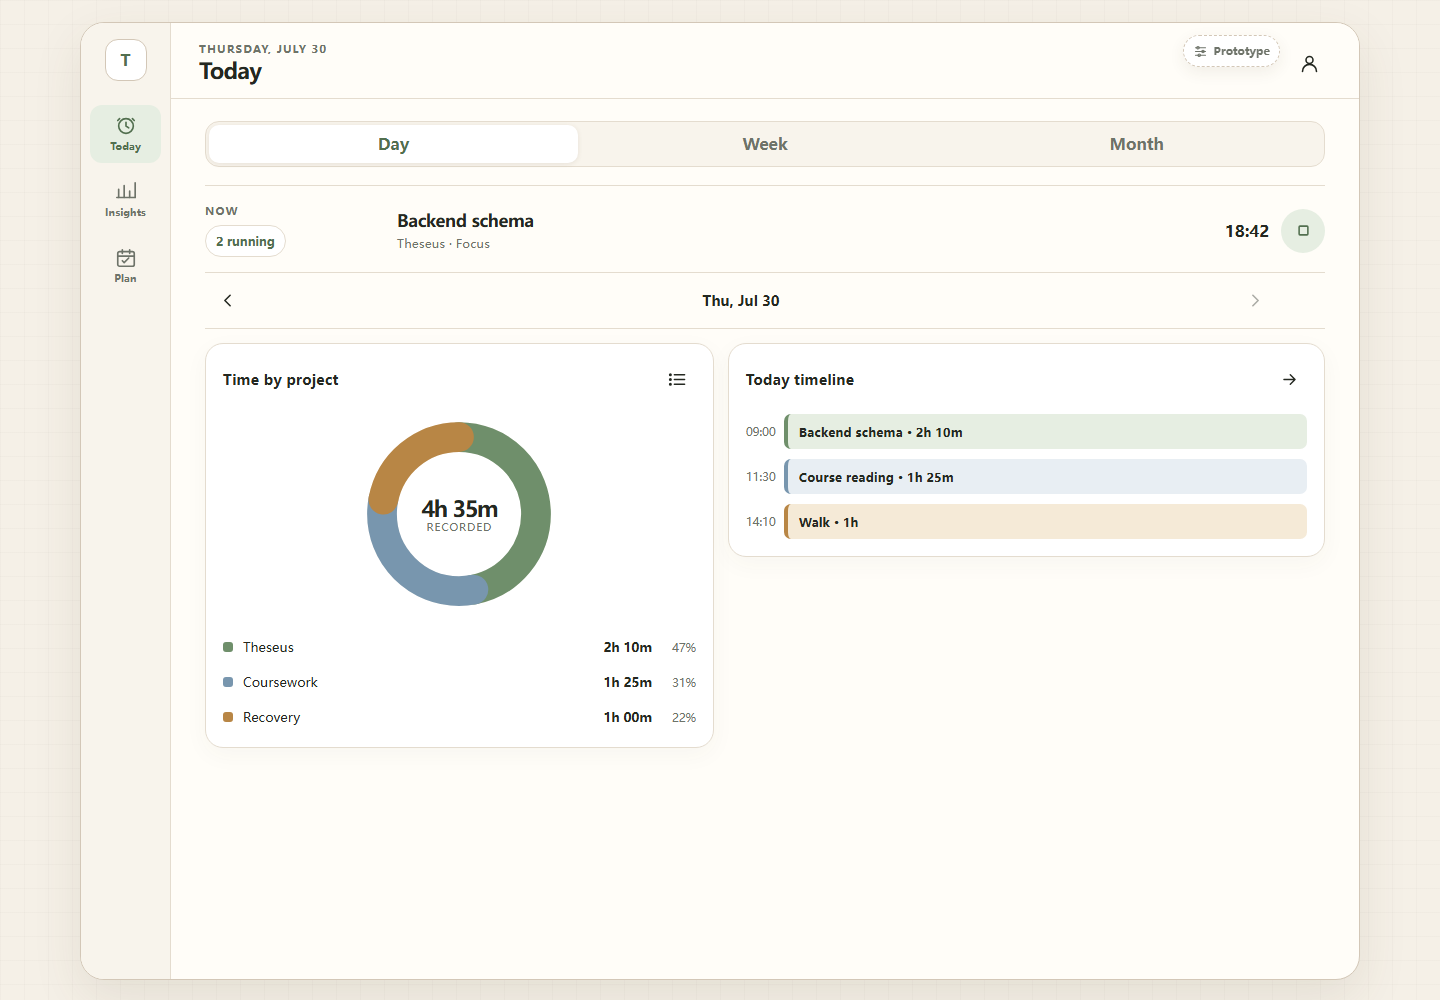
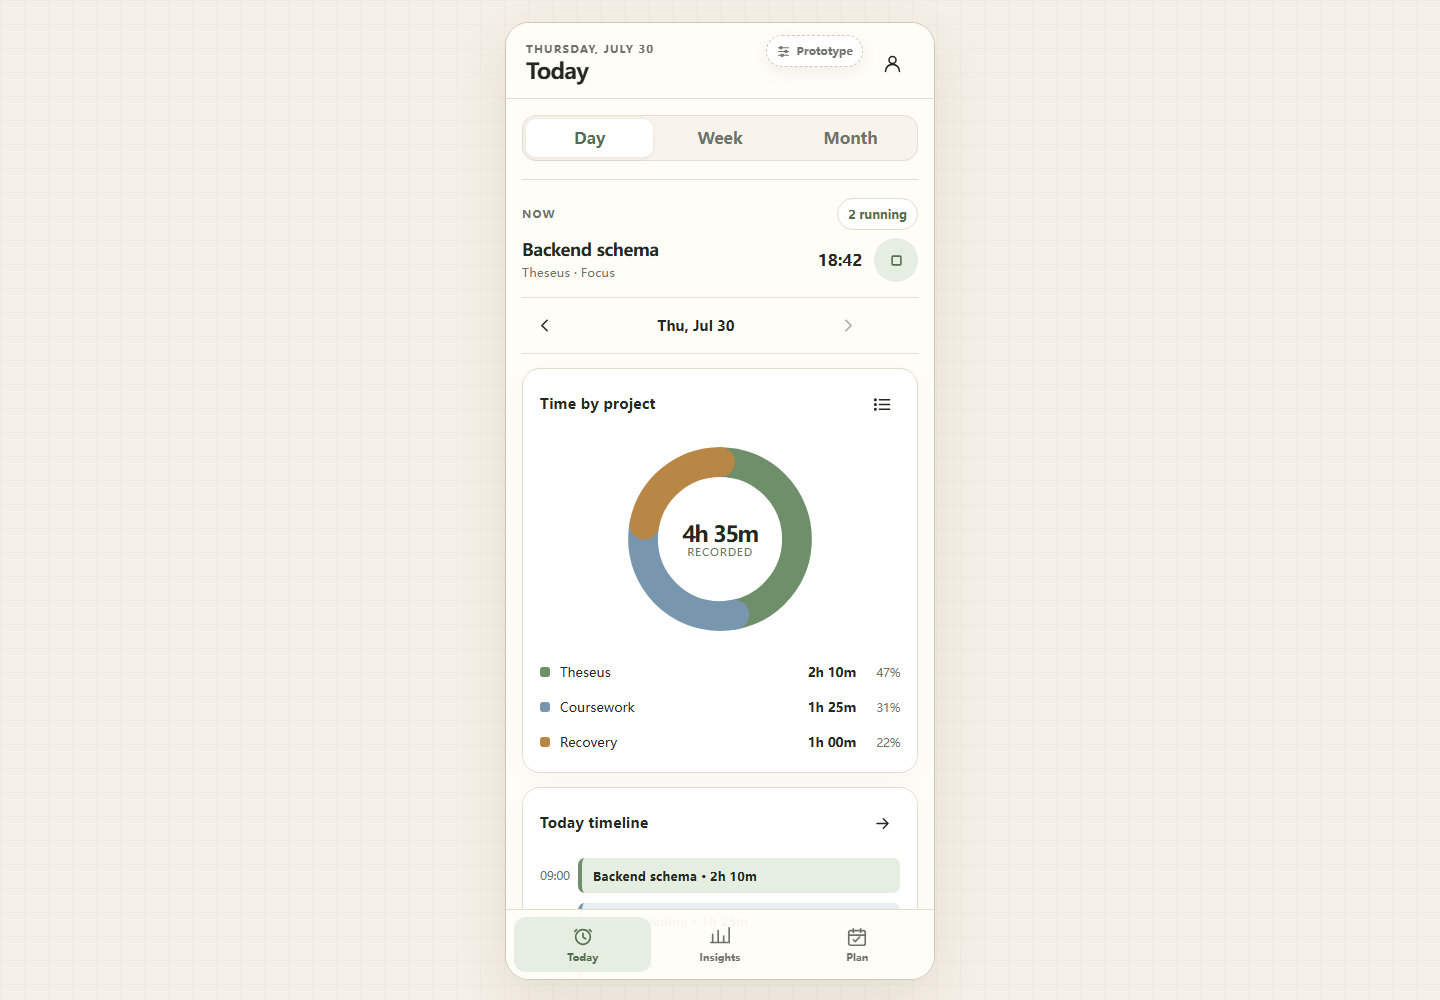
fix: keep daily workspace portrait first

diff --git a/frontend/daily-workspace-prototype/styles.css b/frontend/daily-workspace-prototype/styles.css
@@ -848,7 +848,7 @@ main {
 .proposal-diff {
   margin: 16px 0 0;
   display: grid;
-  grid-template-columns: 1fr auto 1fr;
+  grid-template-columns: 1fr;
   align-items: center;
   gap: 10px;
 }
@@ -873,7 +873,9 @@ main {
 .proposal-diff svg {
   width: 18px;
   height: 18px;
+  justify-self: center;
   color: var(--muted);
+  transform: rotate(90deg);
 }
 
 .proposal-actions {
@@ -1222,11 +1224,9 @@ main {
   }
 
   .app-shell {
-    width: min(100%, 1280px);
+    width: 430px;
     min-height: calc(100vh - 44px);
     margin: 0 auto;
-    display: grid;
-    grid-template-columns: 90px minmax(0, 1fr);
     overflow: hidden;
     border: 1px solid var(--line-strong);
     border-radius: 24px;
@@ -1239,49 +1239,17 @@ main {
     overflow: auto;
   }
 
-  .side-nav {
-    padding: 16px 9px;
-    display: flex;
-    flex-direction: column;
-    align-items: stretch;
-    gap: 8px;
-    border-right: 1px solid var(--line);
-    background: var(--surface);
-  }
-
-  .brand {
-    width: 42px;
-    height: 42px;
-    margin: 0 auto 16px;
-    display: grid;
-    place-items: center;
-    border: 1px solid var(--line-strong);
-    border-radius: 13px;
-    background: var(--paper-strong);
-    color: var(--green-deep);
-    font-weight: 820;
-  }
-
-  .side-nav .nav-button {
-    min-height: 58px;
-  }
-
-  .app-header {
-    padding-right: 28px;
-    padding-left: 28px;
-  }
-
-  main {
-    padding: 22px 28px 38px;
-  }
-
   .bottom-nav {
-    display: none;
+    width: 100%;
+    position: sticky;
+    inset: auto;
+    bottom: 0;
+    flex: 0 0 var(--nav-height);
   }
 
   .prototype-tools {
     top: 35px;
-    right: max(46px, calc((100vw - min(100vw - 44px, 1280px)) / 2 + 80px));
+    right: max(12px, calc(50% - 143px));
   }
 
   .prototype-toggle span {
@@ -1294,40 +1262,15 @@ main {
     white-space: normal;
   }
 
-  .today-layout {
-    grid-template-columns: minmax(300px, 0.92fr) minmax(340px, 1.08fr);
-    align-items: start;
-  }
-
-  .today-layout .panel-wide {
-    grid-column: 1 / -1;
-  }
-
-  .insights-grid,
-  .plan-grid {
-    grid-template-columns: repeat(2, minmax(0, 1fr));
-    align-items: start;
-  }
-
-  .insights-grid .status-panel,
-  .plan-grid .capacity-panel {
-    grid-column: 1;
-  }
-
-  .insights-grid .priority-panel,
-  .plan-grid .proposal {
-    grid-column: 2;
-    grid-row: 1 / span 2;
-  }
-
   .drawer {
     top: 22px;
-    right: 22px;
+    right: auto;
     bottom: 22px;
-    left: auto;
-    width: min(460px, calc(100vw - 44px));
+    left: 50%;
+    width: min(430px, calc(100vw - 44px));
     max-height: none;
     border-radius: 20px;
+    transform: translateX(-50%);
   }
 
   .drawer-body {
@@ -1335,34 +1278,11 @@ main {
   }
 
   .toast {
-    right: 42px;
+    right: auto;
     bottom: 42px;
-    left: auto;
-    width: 340px;
-  }
-}
-
-@media (min-width: 1040px) {
-  .focus-band {
-    display: grid;
-    grid-template-columns: 170px 1fr;
-    align-items: center;
-    column-gap: 22px;
-  }
-
-  .focus-band .section-kicker-row {
-    display: flex;
-    flex-direction: column;
-    align-items: flex-start;
-    gap: 7px;
-  }
-
-  .focus-row {
-    margin-top: 0;
-  }
-
-  .week-chart {
-    min-height: 285px;
+    left: 50%;
+    width: min(390px, calc(100vw - 40px));
+    transform: translateX(-50%);
   }
 }
 

diff --git a/docs/design/daily-workspace-wireframes-v2.md b/docs/design/daily-workspace-wireframes-v2.md
@@ -3,7 +3,7 @@
 - Status: accepted for responsive HTML prototype
 - Story: STORY-040
 - Wireframe date: 2026-07-30
-- Revision: product-owner acceptance recorded after final consistency review
+- Revision: portrait-first product clarification recorded during HTML review
 - Product owner: Dong Zhang
 - Scope: information architecture only; no released UI behavior is claimed
 
@@ -145,26 +145,28 @@ Rules:
 - No persistent sample badge, explanation banner, or assistant placeholder
   consumes Level 1 space.
 
-### Desktop shell
+### Wide-screen preview shell
 
 ```text
-+------+---------------------------------------------------------------+
-|      | current date / week                              account      |
-|  T   |---------------------------------------------------------------|
-|  I   |                                                               |
-|  P   |                       workspace                               |
-|      |                                                               |
-|      |                                                               |
-+------+---------------------------------------------------------------+
++----------------------+  wide-screen preview space
+| current date account |
+|----------------------|
+|                      |
+| portrait workspace   |
+|                      |
+|----------------------|
+| Today Insights Plan  |
++----------------------+
 ```
 
-- A narrow left rail replaces bottom navigation at desktop width.
-- The workspace uses available width; it is not forced into a centered 430px
-  phone simulation.
-- Content remains bounded to readable columns and does not become an admin
-  dashboard.
-- The desktop view rearranges the same hierarchy; it does not add unrelated
-  metrics.
+- Theseus is a mobile App; the 430px portrait workspace is the product baseline.
+- A wide browser centers the same portrait workspace for development, QA, and
+  accessibility testing. It does not introduce a landscape information
+  architecture or side rail.
+- Bottom navigation, reading order, chart proportions, and Level 1 depth remain
+  identical across the preview width.
+- A future tablet or desktop product requires a separate product decision; it
+  must not emerge implicitly from responsive CSS.
 
 ## 5. Today
 
@@ -319,25 +321,28 @@ it never silently opens the current date while history is selected.
 - Month is allowed to ship after Day and Week. Its placeholder must not imply
   unavailable data has been analyzed.
 
-### 5.4 Desktop Today
+### 5.4 Wide-screen Today preview
 
 ```text
-+------+---------------------------------------------------------------+
-|      | Today                                             account      |
-| [T]  | Day  Week  Month           < Thu, Jul 30 >                    |
-|  I   |---------------------------------------------------------------|
-|  P   | NOW          2 running | TIME BY PROJECT              [data] |
-|      | Backend schema   18:42 |        4h 35m                       |
-|      | [Start / End]          |       (donut + legend)              |
-|      |-------------------------|-------------------------------------|
-|      | TODAY TIMELINE          | SEVEN-DAY CONTEXT                   |
-|      | ordered session bands   | compact stacked bars               |
-|      |                         |                                     |
-+------+---------------------------------------------------------------+
++--------------------------------------+
+| Today                        account |
+| Day          Week          Month     |
+|--------------------------------------|
+| NOW                       [2 running]|
+| Backend schema             18:42  [■]|
+|--------------------------------------|
+| < Thu, Jul 30 >                      |
+| TIME BY PROJECT              [data]  |
+|             donut + legend           |
+|--------------------------------------|
+| TODAY TIMELINE                     > |
+|--------------------------------------|
+|       Today   Insights   Plan        |
++--------------------------------------+
 ```
 
-Desktop may show the current Day distribution and compact seven-day context
-together. Both remain connected to the same records and range selector.
+The wide-screen preview keeps the mobile order. It does not place the donut and
+timeline side by side or add a simultaneous seven-day panel.
 
 ### 5.5 Running Activities sheet
 
@@ -417,21 +422,24 @@ Level 1 priority action
 Evidence remains reachable within two taps. The Plan action is not repeated on
 the read-only evidence page.
 
-### 6.3 Desktop Insights
+### 6.3 Wide-screen Insights preview
 
 ```text
-+------+---------------------------------------------------------------+
-|      | < Jun 8 - Jun 14 >                         [This week]        |
-|  T   |---------------------------------------------------------------|
-| [I]  | STATUS + COUNTS          | PRIORITY + ACTION                   |
-|  P   |--------------------------|------------------------------------|
-|      | Wins                     | Other issues                        |
-|      | Weekly review            | Steady checks                       |
-+------+---------------------------------------------------------------+
++--------------------------------------+
+| < Jun 8 - Jun 14 >        [This week]|
+|--------------------------------------|
+| STATUS + COUNTS                      |
+|--------------------------------------|
+| PRIORITY + ACTION                    |
+|--------------------------------------|
+| Wins / Other / Steady / Review       |
+|--------------------------------------|
+|       Today   Insights   Plan        |
++--------------------------------------+
 ```
 
-The priority remains first in reading and keyboard order even when it occupies
-the right desktop column visually.
+Priority follows status in both visual and keyboard order. Wide-screen preview
+does not introduce a second column.
 
 ## 7. Plan
 
@@ -470,19 +478,28 @@ shown in mobile and `Next week` shown in desktop appear only when another target
 week is selected; they restore the default next-week target without changing
 Today or Insights.
 
-### 7.2 Desktop Plan
+### 7.2 Wide-screen Plan preview
 
 ```text
-+------+---------------------------------------------------------------+
-|      | < Jun 15 - Jun 21 >             [Next week]          edit     |
-|  T   |---------------------------------------------------------------|
-|  I   | LOAD + SLACK             | SUGGESTED ADJUSTMENT               |
-| [P]  | planned/capacity bar     | before -> after + Apply            |
-|      |--------------------------|------------------------------------|
-|      | PLAN BLOCKS              | TASKS                              |
-|      | compact ordered rows     | compact active rows                |
-+------+---------------------------------------------------------------+
++--------------------------------------+
+| < Jun 15 - Jun 21 >       [Next week]|
+|--------------------------------------|
+| LOAD + SLACK                         |
+|--------------------------------------|
+| SUGGESTED ADJUSTMENT                 |
+| before                               |
+|   ↓                                  |
+| after                                |
+| Apply                                |
+|--------------------------------------|
+| PLAN BLOCKS / TASKS                  |
+|--------------------------------------|
+|       Today   Insights   Plan        |
++--------------------------------------+
 ```
+
+Before and after stack vertically on the mobile baseline. The proposal must not
+depend on a landscape comparison to remain legible.
 
 ## 8. State Wireframes
 
@@ -850,7 +867,8 @@ Accepted items:
 - the mobile Day view is not too dense;
 - Review and Signals should merge at Level 1 only;
 - the Review character can leave the operational Level 1 screen;
-- desktop should use adaptive workspace width rather than a 430px simulation;
+- wide-screen browsers should center the 430px mobile workspace rather than
+  inventing a landscape product layout;
 - no future assistant control should appear until it works;
 - Day and Week may ship before Month;
 - Current Focus remains live and independent from the selected historical

diff --git a/docs/07_product_backlog.md b/docs/07_product_backlog.md
@@ -1006,8 +1006,17 @@ the final visual-first workspace contract after historical Day drill-down
 semantics, exact Month totals, visible Insights/Plan reset controls, and
 distinct Plan load, failed-save, and unknown-save recovery were reconciled.
 Responsive HTML prototyping is authorized. STORY-040 remains `In Progress`, and
-React implementation remains blocked until the app-sized mobile and desktop
-prototype, interactions, and represented states pass product-owner review.
+React implementation remains blocked until the app-sized portrait prototype,
+wide-screen QA preview, interactions, and represented states pass product-owner
+review.
+
+HTML review correction (2026-07-30 PDT): the product owner clarified that
+Theseus is a mobile App and rejected a landscape-oriented wide-screen
+rearrangement. The prototype and contract now keep the 430px portrait workspace,
+bottom navigation, single-column reading order, and vertically stacked Plan
+diff at wide browser sizes. Wide-screen output is QA preview evidence rather
+than a separate desktop product. STORY-040 remains `In Progress` pending review
+of this corrected portrait-first prototype.
 
 Acceptance criteria:
 

diff --git a/frontend/daily-workspace-prototype/README.md b/frontend/daily-workspace-prototype/README.md
@@ -4,6 +4,10 @@ This is a static, responsive acceptance prototype for the approved
 `Today / Insights / Plan` workspace contract. It uses sanitized sample data and
 does not call Theseus APIs or modify React application code.
 
+Theseus is treated as a mobile App. The product workspace stays 430px and
+single-column at wide browser sizes; the surrounding canvas is only a QA
+preview surface, not a desktop information architecture.
+
 Run from the repository root:
 
 ```bash
